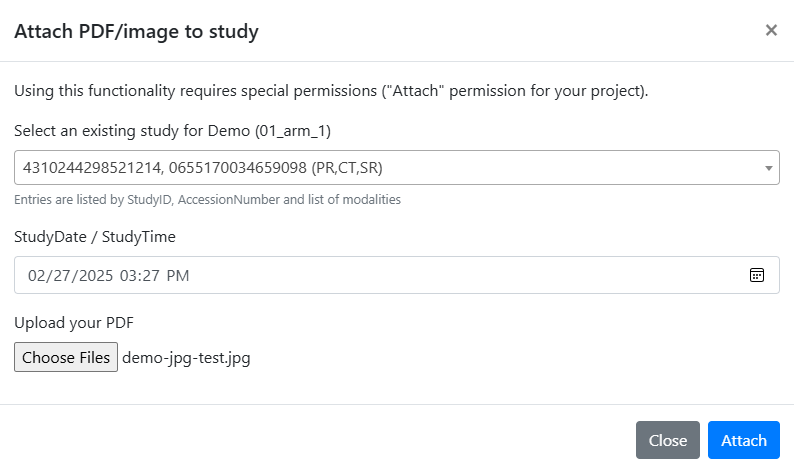
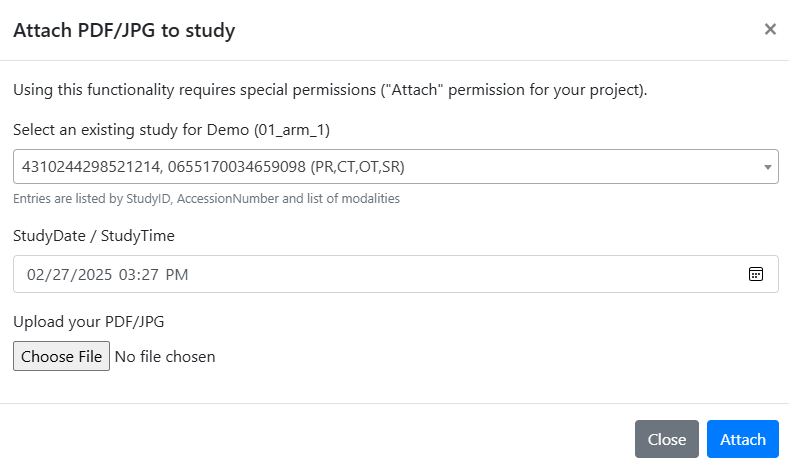
docs: update Attach guide to PDF/JPG GUI texts
Title "Attach PDF/JPG", button "Import PDF/JPG" and window
"Attach PDF/JPG to study", with new screenshots 1 and 2.

diff --git a/source/EndUser/guides/attach-pdf.rst b/source/EndUser/guides/attach-pdf.rst
@@ -1,26 +1,26 @@
 .. _attach-pdf-guide:
 
-Attach PDF
-==========
+Attach PDF/JPG
+==============
 
 The Attach application can add a PDF report or a JPEG image to an existing study in the research PACS. Each page of the PDF document becomes one image in a new series of the selected study. No Assign step is needed.
 
 .. figure:: ../../_static/attach-pdf-1.png
    :width: 100%
 
-   Attach web application. Project, participant and event are selected; the "Import PDF" button is active.
+   Attach web application. Project, participant and event are selected; the "Import PDF/JPG" button is active.
 
 Access
 ------
 
-You need to be logged in, with Attach permission for the project. The "Import PDF" button is visible only after login.
+You need to be logged in, with Attach permission for the project. The "Import PDF/JPG" button is visible only after login.
 
 Steps
 -----
 
-1. Select the project. The "Import PDF" button becomes active.
+1. Select the project. The "Import PDF/JPG" button becomes active.
 2. Select the participant and the event.
-3. Click "Import PDF". The window "Attach PDF/image to study" opens.
+3. Click "Import PDF/JPG". The window "Attach PDF/JPG to study" opens.
 4. Select the study from the list "Select an existing study". Entries show StudyID, AccessionNumber and the list of modalities. StudyDate and StudyTime are filled in from the selected study.
 5. Select one PDF or JPEG file.
 6. Click "Attach".
@@ -28,7 +28,7 @@ Steps
 .. figure:: ../../_static/attach-pdf-2.png
    :width: 70%
 
-   The window "Attach PDF/image to study" with a selected study and a JPEG file.
+   The window "Attach PDF/JPG to study" with a selected study.
 
 Result
 ------

diff --git a/CHANGELOG.md b/CHANGELOG.md
@@ -5,6 +5,7 @@ Daily log of work, grouped by task.
 ## 2026-11-13
 
 - End User: New guide "Attach PDF" (`guides/attach-pdf.rst`) with three screenshots: `attach-pdf-1.png` (Attach page, fictional demo data), `attach-pdf-2.png` (window "Attach PDF/image to study") and `attach-pdf-3.png` (Patient History in the research PACS), both from the Demo test project; in `attach-pdf-3.png` the attached PDF and JPG images are marked in orange. It describes how to attach a PDF report or a JPEG image to an existing study in the research PACS, without Assign. The Attach section links to the guide.
+- End User: The guide follows the new GUI texts: title "Attach PDF/JPG", button "Import PDF/JPG", window "Attach PDF/JPG to study". New screenshots `attach-pdf-1.png` and `attach-pdf-2.png` with these texts.
 
 ## 2026-10-22
 
